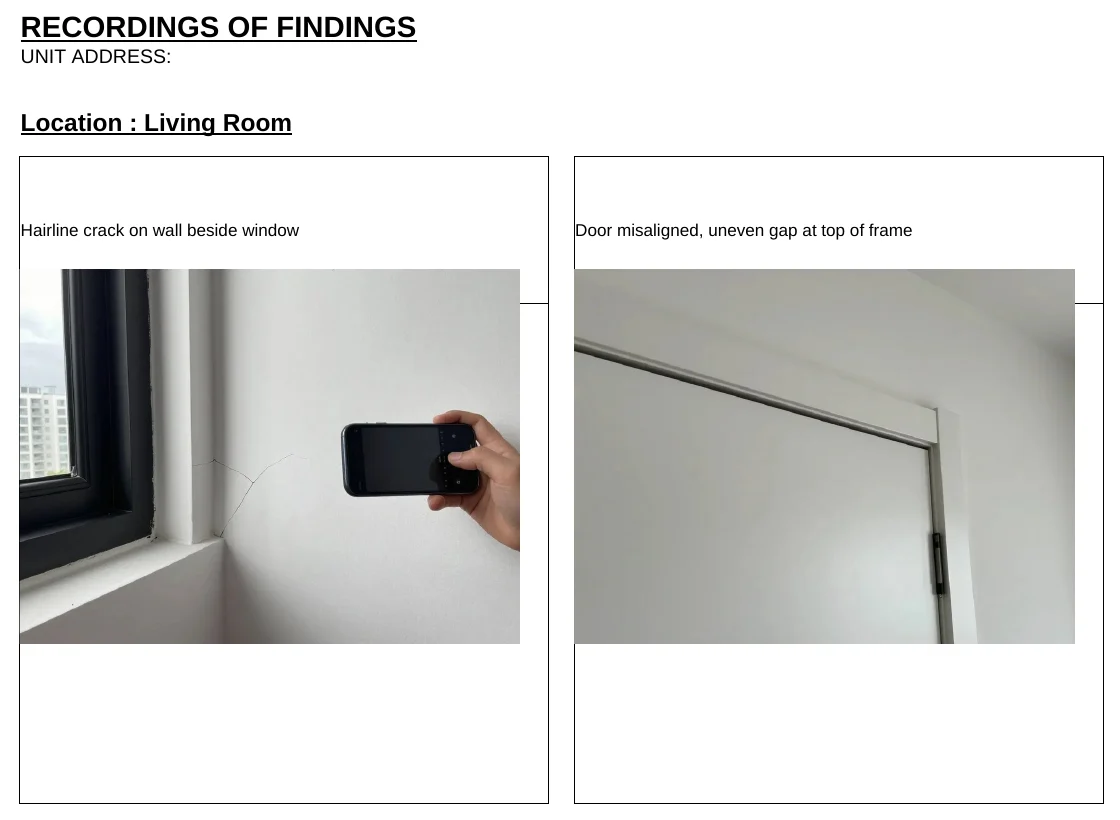
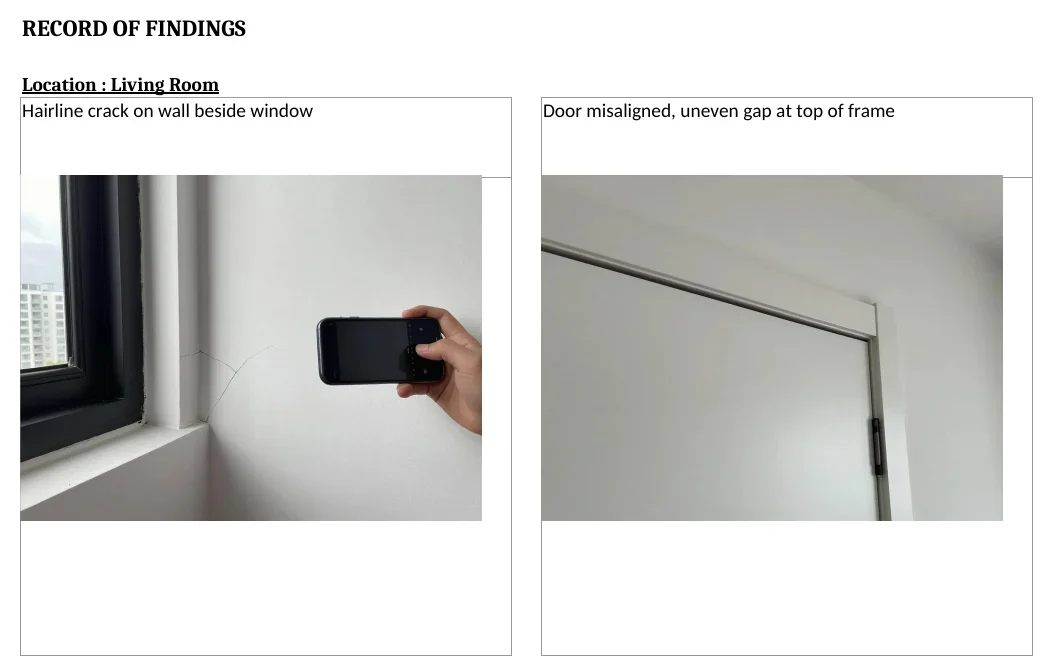
Terms and Licence Agreement page; Terms required at checkout and trial; owner notice; neutral report screenshots
Claude-Session: https://claude.ai/code/session_011FU7cLMhH3CkWFJhLABqN3

diff --git a/docs/terms.html b/docs/terms.html
@@ -1,0 +1,103 @@
+<!doctype html>
+<html lang="en">
+<head>
+<meta charset="utf-8">
+<meta name="viewport" content="width=device-width, initial-scale=1">
+<title>Unitly: Terms and Licence Agreement</title>
+<meta name="description" content="The terms under which Unitly is licensed to you.">
+<link rel="canonical" href="https://unitly.pages.dev/terms.html">
+<style>
+  @font-face { font-family: "Geist"; src: url("fonts/geist.woff2") format("woff2"); font-weight: 100 900; font-display: swap; }
+  :root { --bg: #F6F8F9; --surface: #FFFFFF; --line: #DCE3E6; --text: #0E1A1F; --muted: #4F5F67; --accent: #0F766E; color-scheme: light; }
+  @media (prefers-color-scheme: dark) { :root { --bg: #0B1215; --surface: #121B1F; --line: #24343B; --text: #E7EEF0; --muted: #9BB0B7; --accent: #2BB3A3; color-scheme: dark; } }
+  * { box-sizing: border-box; }
+  body { margin: 0; background: var(--bg); color: var(--text); font: 16px/1.7 "Geist", system-ui, -apple-system, "Segoe UI", Roboto, sans-serif; }
+  a { color: var(--accent); }
+  .wrap { max-width: 760px; margin: 0 auto; padding: 48px 24px 80px; }
+  .back { font-weight: 600; text-decoration: none; }
+  h1 { font-size: clamp(28px, 4vw, 38px); letter-spacing: -.02em; line-height: 1.15; margin: 24px 0 8px; }
+  .meta { color: var(--muted); margin: 0 0 32px; }
+  h2 { font-size: 19px; margin: 36px 0 8px; letter-spacing: -.01em; }
+  p, li { color: var(--text); }
+  ol, ul { padding-left: 22px; } li { margin: 6px 0; }
+  .box { background: var(--surface); border: 1px solid var(--line); border-radius: 12px; padding: 18px 20px; }
+</style>
+</head>
+<body>
+<main class="wrap">
+  <a class="back" href="./">Back to Unitly</a>
+  <h1>Terms and Licence Agreement</h1>
+  <p class="meta">Version 1, effective 11 October 2026</p>
+
+  <div class="box">
+    <p style="margin:0">Unitly is owned by <b>Mohamed Kaiser</b>. When you buy or try Unitly you receive a licence to use it.
+    You do not buy the software itself. By starting a free trial, submitting an order, or activating a licence key, you agree to these terms.</p>
+  </div>
+
+  <h2>1. Who we are</h2>
+  <p>In these terms, "Unitly", "we" and "us" mean Mohamed Kaiser, the developer and sole owner of the Unitly software, website and brand.
+  "You" means the person or company that requests a trial, places an order or uses Unitly.</p>
+
+  <h2>2. Ownership</h2>
+  <ol>
+    <li>Unitly, including its program code, compiled application, design, user interface, workflow, report generation methods, template system,
+    licensing system, documentation, website, name and logo, is the exclusive property of Mohamed Kaiser and is protected by the
+    Copyright Act 1987 (Malaysia) and international copyright law. All rights not expressly granted to you are reserved.</li>
+    <li>Nothing in these terms, and no payment you make, transfers ownership of Unitly or any part of it to you.</li>
+    <li>Your photos, captions, templates and the reports you create belong to you.</li>
+  </ol>
+
+  <h2>3. Your licence</h2>
+  <ol>
+    <li>Each paid licence key lets you install and use Unitly on <b>one computer</b>, for your own business, for as long as you follow these terms.</li>
+    <li>A free trial key gives the same right for 48 hours from activation, once per person and once per computer.</li>
+    <li>The licence is personal to you. You may not share, sell, lend or publish your licence key, and you may not let others use it on another computer.</li>
+  </ol>
+
+  <h2>4. What you must not do</h2>
+  <p>You agree that you will not, and will not help or allow anyone else to:</p>
+  <ol>
+    <li>copy, decompile, disassemble, reverse engineer or try to obtain the source code of Unitly;</li>
+    <li>modify Unitly, remove or change its ownership notices, or get around its licence checks;</li>
+    <li>resell, rent, sublicense, distribute or share Unitly or any download link we send you;</li>
+    <li><b>build, commission or distribute a copy of Unitly</b>, or software that reproduces Unitly's design, interface, workflow, features or
+    report-generation methods, using knowledge gained from your access to Unitly, its trial, its documentation or this website;</li>
+    <li>use Unitly, its output or anything learned from it to create a product that competes with Unitly.</li>
+  </ol>
+  <p>Breaking this section ends your licence immediately, without refund, and we may take legal action to protect our rights,
+  including claiming damages and seeking a court order to stop the infringement.</p>
+
+  <h2>5. Payment and delivery</h2>
+  <ol>
+    <li>Prices are one-time payments in Malaysian Ringgit, paid by Touch 'n Go eWallet to the account shown at checkout.</li>
+    <li>We confirm each payment by hand. Your licence key and a private download link are emailed after confirmation, usually the same day.
+    If we cannot match your payment we will contact you by email.</li>
+    <li>Because a licence key can be used immediately, payments are not refundable once a key has been sent, except where Malaysian law requires otherwise.
+    Please use the free trial first.</li>
+  </ol>
+
+  <h2>6. Updates and support</h2>
+  <p>We may release updates and new modules. Support is by email at <a href="mailto:mohdkaiser1806@gmail.com">mohdkaiser1806@gmail.com</a>.
+  We may move a key to a new computer on request when your old computer is replaced.</p>
+
+  <h2>7. Activation and privacy</h2>
+  <p>Unitly checks your licence online when you activate it and at least every 14 days. It sends only your licence key and an anonymous code for your computer.
+  Your photos and reports never leave your computer. We keep your name, email, company and order details to deliver and support your licence,
+  and we do not sell them.</p>
+
+  <h2>8. No warranty and limit of liability</h2>
+  <p>Unitly is provided "as is". You are responsible for checking every report before you use or send it. To the extent the law allows, we are not liable
+  for any indirect or consequential loss, and our total liability to you is limited to the amount you paid for your licence.</p>
+
+  <h2>9. Ending the licence</h2>
+  <p>We may disable a licence key that is shared, used against these terms, or bought with a payment that was reversed. You may stop using Unitly at any time.
+  Sections 2, 4 and 8 continue to apply after the licence ends.</p>
+
+  <h2>10. Changes and law</h2>
+  <p>We may update these terms for future purchases; the version you agreed to applies to your existing licence. These terms are governed by the laws
+  of Malaysia, and the courts of Malaysia have jurisdiction.</p>
+
+  <p class="meta" style="margin-top:40px">© 2026 Mohamed Kaiser. All rights reserved. Unitly is a trademark of Mohamed Kaiser.</p>
+</main>
+</body>
+</html>

diff --git a/docs/index.html b/docs/index.html
@@ -202,6 +202,10 @@
   .err { color: var(--err); font-size: 13px; font-weight: 600; min-height: 0; }
   .msg { font-weight: 600; margin: 0; min-height: 1.4em; } .msg.ok { color: var(--ok); } .msg.err { color: var(--err); }
 
+  .agree { display: grid; grid-template-columns: 22px 1fr; gap: 10px; align-items: start; margin-top: 18px; font-size: 14px; color: var(--muted); }
+  .agree input { width: 20px; height: 20px; min-height: 0; margin: 2px 0 0; accent-color: var(--accent); }
+  .agree label { cursor: pointer; }
+
   /* trial */
   .trial { background: var(--accent); color: var(--accent-ink); }
   .trial .wrap { display: grid; grid-template-columns: 1fr 1.1fr; gap: 56px; align-items: center; padding-top: 96px; padding-bottom: 96px; }
@@ -312,8 +316,8 @@
       </div>
     </div>
     <div class="stage" aria-label="Pages from a report made with Unitly">
-      <figure class="shot back"><img src="img/report-pro.webp" width="1120" height="820" alt="Record of Finding page: two defect photos side by side, each with its description"></figure>
-      <figure class="shot front"><img src="img/report-summary.webp" width="1030" height="446" alt="Summary page listing each room and its defect"></figure>
+      <figure class="shot back"><img src="img/report-pro.webp" width="1053" height="665" alt="Record of Finding page: two defect photos side by side, each with its description"></figure>
+      <figure class="shot front"><img src="img/report-summary.webp" width="1051" height="644" alt="Summary page listing each room and its defect"></figure>
     </div>
   </section>
 
@@ -337,7 +341,7 @@
             <h3>Summary page, filled in for you</h3>
             <p>Every defect is listed by room on the Summary page, with inspector, property type and check date filled in.</p>
           </div>
-          <figure class="shot"><img src="img/report-summary.webp" width="1030" height="446" loading="lazy" alt="Summary page with rooms and defects"></figure>
+          <figure class="shot"><img src="img/report-summary.webp" width="1051" height="644" loading="lazy" alt="Summary page with rooms and defects"></figure>
         </div>
         <div class="cell c-b reveal" style="--d:.08s">
           <span class="badge-ic"><svg class="ic" aria-hidden="true"><use href="#i-camera-plus"/></svg></span>
@@ -374,7 +378,7 @@
         </ol>
       </div>
       <figure class="shot reveal" style="--d:.1s">
-        <img src="img/report-pro.webp" width="1120" height="820" loading="lazy" alt="Record of Finding page with photos and descriptions">
+        <img src="img/report-pro.webp" width="1053" height="665" loading="lazy" alt="Record of Finding page with photos and descriptions">
         <figcaption>Record of Finding: two photos per row, the description above each one.</figcaption>
       </figure>
     </div>
@@ -413,7 +417,7 @@
         <div class="plan pro reveal" style="--d:.08s">
           <h3>Pro <span class="badge">Recommended</span></h3>
           <div class="price">RM 599 <small>/ computer</small></div>
-          <figure class="shot"><img src="img/report-summary.webp" width="1030" height="446" loading="lazy" alt="Pro output: the formatted Summary page"><figcaption>Pro output: the full report, ready to send to your client.</figcaption></figure>
+          <figure class="shot"><img src="img/report-summary.webp" width="1051" height="644" loading="lazy" alt="Pro output: the formatted Summary page"><figcaption>Pro output: the full report, ready to send to your client.</figcaption></figure>
           <ul class="feat">
             <li><svg class="ic" aria-hidden="true"><use href="#i-check"/></svg>Everything in Lite</li>
             <li><svg class="ic" aria-hidden="true"><use href="#i-check"/></svg>Full formatted report, ready to send</li>
@@ -485,6 +489,9 @@
               <div class="summary-row"><span>Amount paid</span><b data-amount>RM 599</b></div>
               <div class="summary-row"><span>Key sent to</span><b data-email></b></div>
             </div>
+            <div class="agree"><input type="checkbox" id="buy-terms" name="terms" value="v1" aria-describedby="buy-terms-e">
+              <label for="buy-terms">I agree to the <a href="terms.html" target="_blank" rel="noopener">Terms and Licence Agreement</a>. Unitly is owned by Mohamed Kaiser; I receive a licence to use it and will not copy or recreate it.</label></div>
+            <span class="err" id="buy-terms-e"></span>
             <p class="msg" role="status" aria-live="polite"></p>
             <div class="nav-row"><button class="btn btn-ghost" type="button" data-back>Back</button><button class="btn btn-primary" type="submit">Submit order</button></div>
           </div>
@@ -521,6 +528,8 @@
             <div class="field"><label class="l" for="trial-company">Company <span class="hint">(optional)</span></label><input id="trial-company" name="company" autocomplete="organization"></div>
           </div>
           <div class="field"><label class="l" for="trial-email">Work email</label><input id="trial-email" name="email" type="email" required autocomplete="email"></div>
+          <div class="agree"><input type="checkbox" id="trial-terms" name="terms" value="v1" required>
+            <label for="trial-terms">I agree to the <a href="terms.html" target="_blank" rel="noopener">Terms and Licence Agreement</a>.</label></div>
           <button class="btn btn-primary" type="submit">Email me a trial key</button>
           <p class="msg" role="status" aria-live="polite"></p>
         </form>
@@ -564,7 +573,7 @@
 
 <footer>
   <div class="wrap">
-    <span>© 2026 Unitly. Payments by Touch 'n Go eWallet.</span>
+    <span>© 2026 Mohamed Kaiser. Unitly is owned and developed by Mohamed Kaiser. All rights reserved. <a href="terms.html">Terms</a></span>
     <span>Contact: <a href="mailto:mohdkaiser1806@gmail.com">mohdkaiser1806@gmail.com</a></span>
   </div>
 </footer>
@@ -621,7 +630,9 @@ function valid(n) {
   }
   if (n === 3) {
     const ok = check('buy-ref', $('#buy-ref').value.trim().length >= 6, 'Please enter the full reference number from your TNG receipt.');
-    if (!ok) $('#buy-ref').focus(); return ok;
+    const t = check('buy-terms', $('#buy-terms').checked, 'Please agree to the Terms to place your order.');
+    if (!ok) $('#buy-ref').focus(); else if (!t) $('#buy-terms').focus();
+    return ok && t;
   }
   return true;
 }

diff --git a/README.md b/README.md
@@ -1,8 +1,7 @@
-# HomeCheck
+# Unitly
 
-Inspection reports in minutes: turns your home-inspection photos and videos into a finished Excel report.
+Website for Unitly: https://unitly.pages.dev/
 
-**Download:** [HomeCheck-Setup.zip](https://github.com/ImLiquify/Home-Check---Rizurf/releases/latest/download/HomeCheck-Setup.zip)
-(Windows 10/11). Unzip, double-click **Install HomeCheck**, then enter the licence key from your purchase email.
-
-`site/` holds the sales website.
+Unitly is proprietary software. Copyright (c) 2026 Mohamed Kaiser. All rights reserved.
+Use is governed by the [Terms and Licence Agreement](https://unitly.pages.dev/terms.html).
+Downloads are sent by email to licence holders only.
